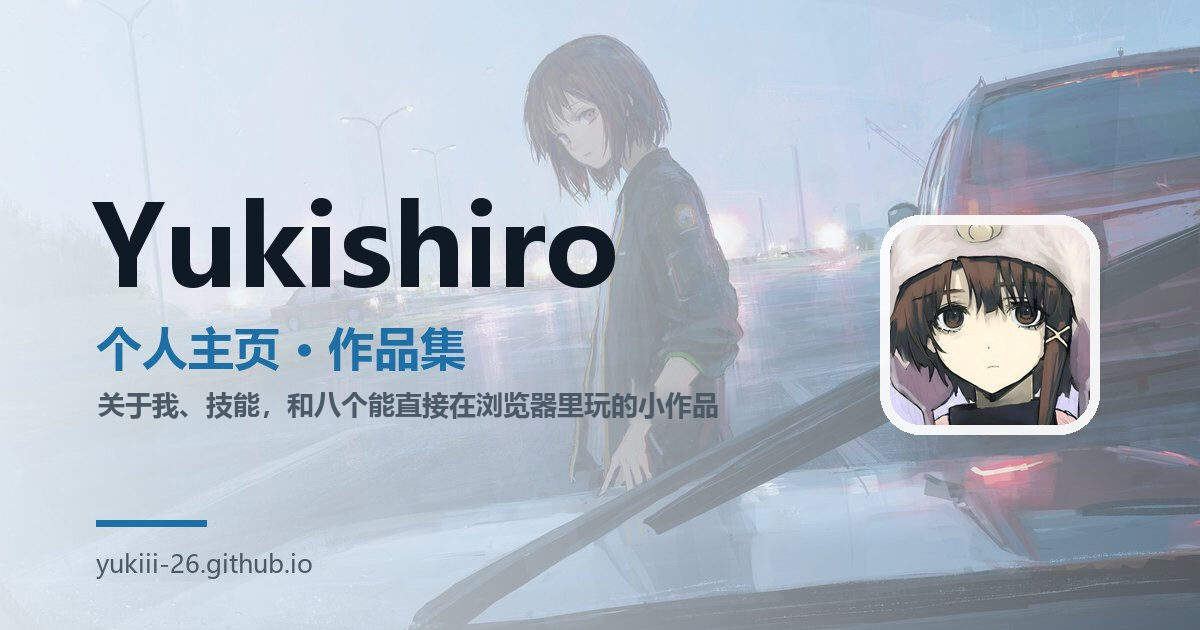
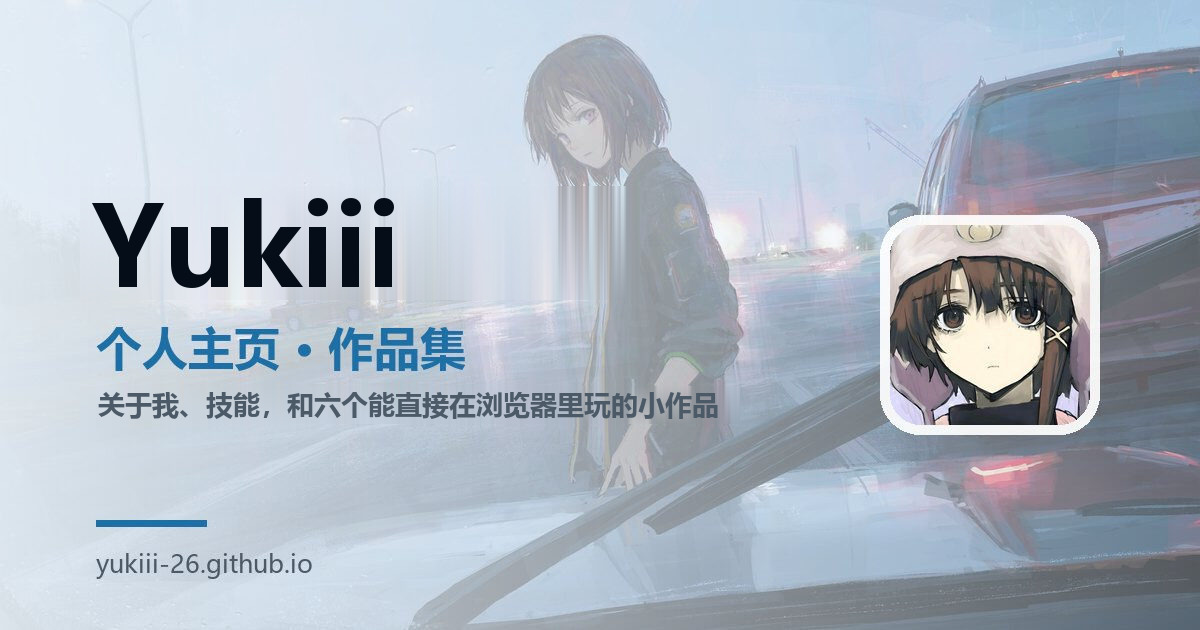
页脚加「分享这个网站」按钮 + 重做分享封面（Yukishiro→Yukiii、八个→六个）

Changed region(s): [[0.1542, 0.3016, 0.5242, 0.4825], [0.2467, 0.6032, 0.2775, 0.6635]]

diff --git a/index.html b/index.html
@@ -433,6 +433,57 @@
   .to-top.show{opacity:1;visibility:visible;transform:none}
   .to-top:hover{background:var(--accent-hi);border-color:var(--accent-hi)}
 
+  /* ===================== 分享（2026-11-07 加） ===================== */
+  /* 「分享这个网站」按钮 + 点开后的面板。想改外观，改下面这一整块就够。 */
+  .share-btn{
+    display:inline-flex;align-items:center;gap:7px;cursor:pointer;font-family:inherit;
+    padding:7px 14px;border-radius:999px;font-size:12px;
+    color:var(--accent);background:transparent;border:1px solid var(--accent);
+    transition:background .2s,color .2s,transform .15s;
+  }
+  .share-btn:hover{background:var(--accent);color:var(--accent-ink);transform:translateY(-1px)}
+  .share-btn:active{transform:translateY(0)}
+  .share-btn .ico{font-size:13px;line-height:1}
+
+  /* 面板：从底部中间弹出来 */
+  .share-sheet{
+    position:fixed;left:50%;bottom:26px;transform:translate(-50%,14px);
+    z-index:96;width:min(420px,calc(100vw - 32px));
+    background:var(--paper);border:1px solid var(--line);border-radius:20px;
+    padding:18px 18px 16px;box-shadow:0 18px 50px rgba(0,0,0,.34);
+    opacity:0;visibility:hidden;transition:opacity .22s,transform .22s,visibility .22s;
+  }
+  .share-sheet.show{opacity:1;visibility:visible;transform:translate(-50%,0)}
+  .share-sheet h4{font-size:15px;font-weight:800;margin:0 0 3px;color:var(--ink)}
+  .share-sheet .share-sub{font-size:11.5px;color:var(--muted);margin:0 0 14px;line-height:1.6}
+  .share-grid{display:grid;grid-template-columns:repeat(3,1fr);gap:9px}
+  .share-grid a,.share-grid button{
+    display:flex;flex-direction:column;align-items:center;gap:6px;cursor:pointer;
+    padding:11px 6px 10px;border-radius:13px;font-family:inherit;
+    font-size:11.5px;line-height:1.2;text-align:center;text-decoration:none;
+    color:var(--ink);background:var(--surface);border:1px solid var(--line);
+    transition:border-color .18s,color .18s,transform .15s;
+  }
+  .share-grid a:hover,.share-grid button:hover{border-color:var(--accent);color:var(--accent);transform:translateY(-1px)}
+  .share-grid .si{font-size:17px;line-height:1}
+  /* 手机上不显示 X / Facebook（国内也用不上），电脑上不显示「系统分享」。 */
+  /* 注意：这里的 display 必须带上 .share-grid 前缀，否则被 .share-grid a{display:flex} 压过去。 */
+  .share-grid > .mobile-only{display:none}
+  @media (max-width:720px){
+    .share-grid{grid-template-columns:repeat(2,1fr)}
+    .share-grid > .mobile-only{display:flex}
+    .share-grid > .desktop-only{display:none}
+  }
+
+  /* 复制成功之类的小提示 */
+  .toast{
+    position:fixed;left:50%;bottom:112px;transform:translate(-50%,10px);
+    z-index:99;padding:10px 18px;border-radius:999px;font-size:12.5px;
+    background:var(--accent);color:var(--accent-ink);white-space:nowrap;pointer-events:none;
+    opacity:0;visibility:hidden;transition:opacity .22s,transform .22s,visibility .22s;
+  }
+  .toast.show{opacity:1;visibility:visible;transform:translate(-50%,0)}
+
   /* 进场动画：只有浏览器启用 JS 时才隐藏，避免关掉 JS 后内容看不见 */
   .js .reveal{opacity:0;transform:translateY(16px);transition:opacity .7s ease,transform .7s ease}
   .js .reveal.in{opacity:1;transform:none}
@@ -848,6 +899,10 @@
     <!-- ↓↓↓ 改这里 ⑨：页脚，年份会自动更新 ↓↓↓ -->
     <span>© <span id="year">2026</span> Yukiii</span>
     <span>托管在 GitHub Pages</span>
+    <!-- 分享按钮：点了弹出「复制链接 / 微信 / ↗ 系统分享」等。想改外观搜 .share-btn -->
+    <button class="share-btn" id="shareBtn" type="button" aria-haspopup="dialog" aria-expanded="false">
+      <span class="ico" aria-hidden="true">↗</span>分享这个网站
+    </button>
     <!-- ↑↑↑ 改这里 ⑨ ↑↑↑ -->
   </div>
   <!-- 背景图来源声明：换了背景图就改这里（链接 + 作者名） -->
@@ -857,6 +912,21 @@
 </footer>
 
 <button class="to-top" id="toTop" aria-label="回到顶部">↑</button>
+
+<!-- ===================== 分享面板（点页脚的「分享这个网站」才出现） ===================== -->
+<div class="share-sheet" id="shareSheet" role="dialog" aria-modal="true" aria-labelledby="shareTitle" hidden>
+  <h4 id="shareTitle">分享给朋友</h4>
+  <p class="share-sub">直接把链接发过去，对方收到的就是带封面的卡片。</p>
+  <div class="share-grid">
+    <button type="button" id="shareCopy"><span class="si" aria-hidden="true">⧉</span>复制链接</button>
+    <button type="button" id="shareNative" class="mobile-only"><span class="si" aria-hidden="true">⤴</span>系统分享</button>
+    <button type="button" id="shareWechat"><span class="si" aria-hidden="true">💬</span>微信 / QQ</button>
+    <a id="shareX" href="#" target="_blank" rel="noopener noreferrer" class="desktop-only"><span class="si" aria-hidden="true">𝕏</span>X</a>
+    <a id="shareFb" href="#" target="_blank" rel="noopener noreferrer" class="desktop-only"><span class="si" aria-hidden="true">f</span>Facebook</a>
+  </div>
+</div>
+<div class="toast" id="shareToast" role="status" aria-live="polite"></div>
+
 
 <script>
   // 年份自动更新
@@ -927,6 +997,100 @@
   }, { passive: true });
   toTop.addEventListener('click', function () {
     window.scrollTo({ top: 0, behavior: 'smooth' });
+  });
+
+  // ===================== 分享（在文件里搜「分享」就能找到这一段） =====================
+  // 复制用的是 navigator.clipboard，本地双击打不开（file:// 不安全上下文）时自动退回老办法 execCommand。
+  var shareBtn = document.getElementById('shareBtn');
+  var shareSheet = document.getElementById('shareSheet');
+  var shareToast = document.getElementById('shareToast');
+  var shareTimer = null;
+
+  function toast(msg) {
+    shareToast.textContent = msg;
+    shareToast.classList.add('show');
+    clearTimeout(shareTimer);
+    shareTimer = setTimeout(function () { shareToast.classList.remove('show'); }, 2200);
+  }
+
+  function openShare() {
+    shareSheet.hidden = false;
+    // 先让它按 hidden 状态排一次版，再加 .show，transition 才会动
+    void shareSheet.offsetHeight;
+    shareSheet.classList.add('show');
+    shareBtn.setAttribute('aria-expanded', 'true');
+    document.getElementById('shareX').href =
+      'https://twitter.com/intent/tweet?text=' + encodeURIComponent(document.title) +
+      '&url=' + encodeURIComponent(location.href);
+    document.getElementById('shareFb').href =
+      'https://www.facebook.com/sharer/sharer.php?u=' + encodeURIComponent(location.href);
+  }
+
+  function closeShare() {
+    shareSheet.classList.remove('show');
+    shareBtn.setAttribute('aria-expanded', 'false');
+    setTimeout(function () { if (!shareSheet.classList.contains('show')) shareSheet.hidden = true; }, 240);
+  }
+
+  // 老浏览器（含本地 file:// 预览）复制链接的兜底办法
+  function legacyCopy(text) {
+    var ta = document.createElement('textarea');
+    ta.value = text;
+    ta.setAttribute('readonly', '');
+    ta.style.position = 'fixed';
+    ta.style.top = '-1000px';
+    document.body.appendChild(ta);
+    ta.select();
+    var ok = false;
+    try { ok = document.execCommand('copy'); } catch (e) {}
+    document.body.removeChild(ta);
+    return ok;
+  }
+
+  function doCopy() {
+    var url = location.origin + location.pathname;
+    if (navigator.clipboard && window.isSecureContext) {
+      navigator.clipboard.writeText(url).then(function () {
+        toast('链接已复制，发出去就行');
+      }, function () {
+        toast(legacyCopy(url) ? '链接已复制，发出去就行' : '复制失败，长按地址栏手动复制吧');
+      });
+    } else {
+      toast(legacyCopy(url) ? '链接已复制，发出去就行' : '复制失败，长按地址栏手动复制吧');
+    }
+  }
+
+  shareBtn.addEventListener('click', function (e) {
+    e.stopPropagation();
+    if (shareSheet.classList.contains('show')) { closeShare(); } else { openShare(); }
+  });
+  document.getElementById('shareCopy').addEventListener('click', doCopy);
+
+  // 手机上的「系统分享」：直接调起微信 / QQ / 备忘录等任意 App
+  var nativeBtn = document.getElementById('shareNative');
+  if (navigator.share) {
+    nativeBtn.addEventListener('click', function () {
+      navigator.share({ title: document.title, text: '我的个人主页', url: location.href })
+        .catch(function () {});
+    });
+  } else {
+    nativeBtn.parentNode.removeChild(nativeBtn);
+  }
+
+  // 电脑上的「微信 / QQ」：手机上没有这个按钮，所以不判断设备
+  document.getElementById('shareWechat').addEventListener('click', function () {
+    doCopy();
+    toast('已复制链接，粘到微信 / QQ 里发就行');
+  });
+
+  // 点面板外面 / 按 Esc 关掉
+  document.addEventListener('click', function (e) {
+    if (shareSheet.classList.contains('show') && !shareSheet.contains(e.target) && !shareBtn.contains(e.target)) {
+      closeShare();
+    }
+  });
+  document.addEventListener('keydown', function (e) {
+    if (e.key === 'Escape' && shareSheet.classList.contains('show')) closeShare();
   });
 
   // ===================== 🥚 彩蛋：键盘秘技（在文件里搜「彩蛋」就能找到这一段） =====================
